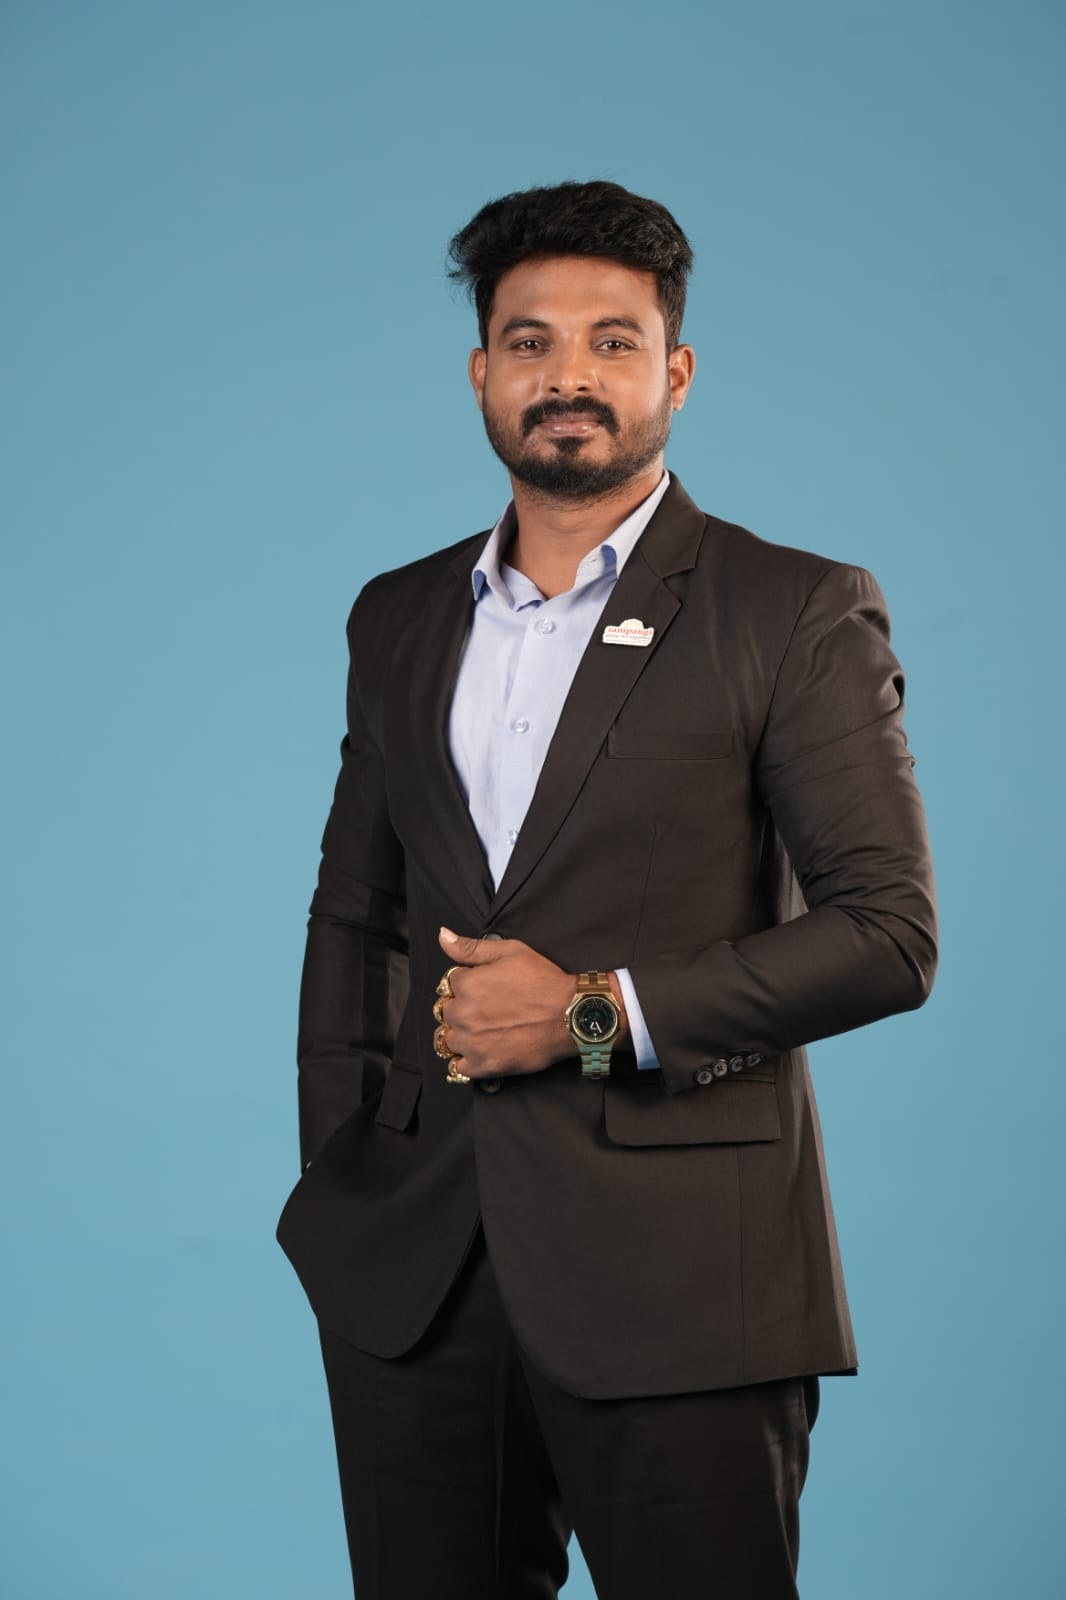
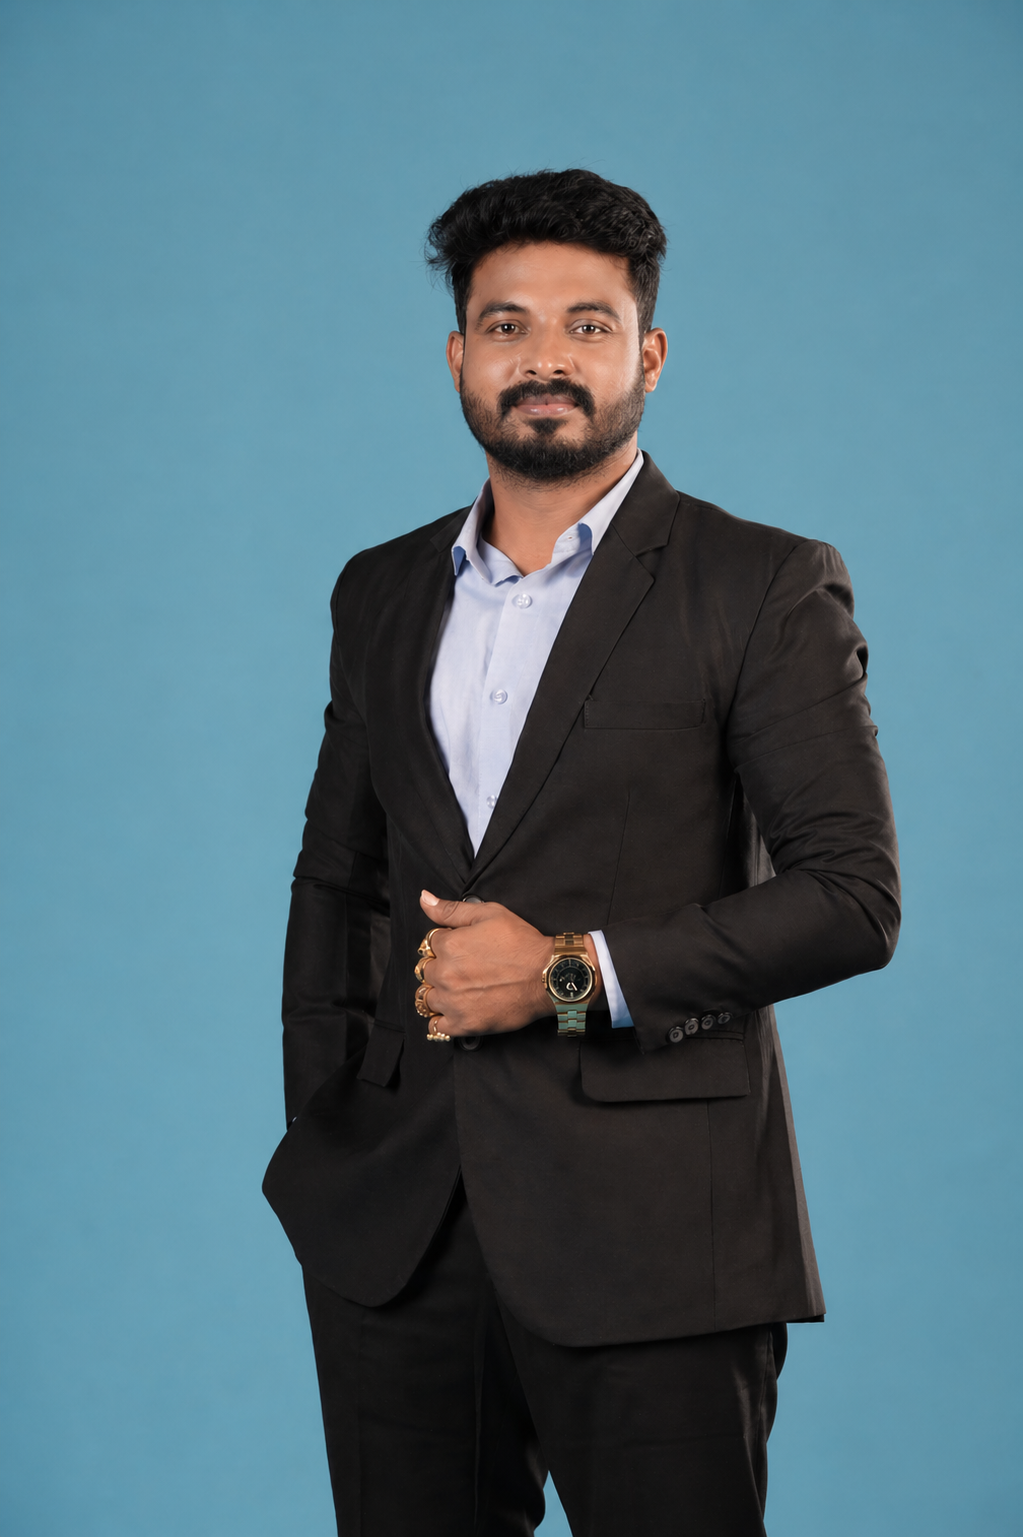
updated our journey

diff --git a/src/components/OngoingProjects.tsx b/src/components/OngoingProjects.tsx
@@ -20,8 +20,6 @@ import lemonTreeResort from "@/assets/lemon-tree-resort.png";
 import oneNineRezo from "@/assets/one-nine-rezo.png";
 
 export function OngoingProjects() {
-  const images = [image1, image2, image3, image4, image5, image6, image7, image8, image9, image10, image11, image12];
-  
   return (
     <div className="bg-background">
       {/* Project 1: Supraja Iris Resort */}
@@ -449,35 +447,35 @@ export function OngoingProjects() {
           </motion.div>
 
           <div className="columns-1 sm:columns-2 lg:columns-3 gap-6 space-y-6">
-            {images.map((img, index) => {
-              const labels = [
-                "Grand Entrance", "Clubhouse", "Swimming Pool", "Green Parks", 
-                "Kids Area", "Gym", "Jogging Track", "Security", 
-                "Party Lawn", "Yoga Deck", "Street Lights", "Drainage"
-              ];
-
-              return (
-                <motion.div
-                  key={index}
-                  initial={{ opacity: 0, y: 20 }}
-                  whileInView={{ opacity: 1, y: 0 }}
-                  viewport={{ once: false }}
-                  transition={{ duration: 0.5, delay: (index % 3) * 0.1 }}
-                  className="break-inside-avoid group relative rounded-3xl overflow-hidden shadow-soft hover:shadow-elegant transition-all duration-500 border border-border/50 bg-white"
-                >
-                  <img
-                    src={img}
-                    alt={labels[index]}
-                    className="w-full h-auto block transition-transform duration-700 group-hover:scale-105"
-                  />
-                  <div className="absolute inset-0 bg-black/20 group-hover:bg-black/40 transition-colors duration-500" />
-                  <div className="absolute bottom-0 left-0 right-0 p-6 translate-y-4 opacity-0 group-hover:translate-y-0 group-hover:opacity-100 transition-all duration-500">
-                    <p className="text-white font-bold text-lg">{labels[index]}</p>
-                    <div className="w-8 h-1 bg-primary mt-2 rounded-full" />
-                  </div>
-                </motion.div>
-              );
-            })}
+            {[
+              { img: image1,  label: "Grand Entrance" },
+              { img: image4,  label: "Green Parks" },
+              { img: image7,  label: "Jogging Track" },
+              { img: image10, label: "Yoga Deck" },
+              { img: image3,  label: "Swimming Pool" },
+              { img: image6,  label: "Gym" },
+              { img: image9,  label: "Party Lawn" },
+              { img: image12, label: "Drainage" },
+              { img: image2,  label: "Clubhouse" },
+              { img: image5,  label: "Kids Area" },
+              { img: image8,  label: "Security" },
+              { img: image11, label: "Street Lights" },
+            ].map(({ img, label }, index) => (
+              <motion.div
+                key={index}
+                initial={{ opacity: 0, y: 20 }}
+                whileInView={{ opacity: 1, y: 0 }}
+                viewport={{ once: false }}
+                transition={{ duration: 0.5, delay: (index % 3) * 0.1 }}
+                className="break-inside-avoid group relative rounded-3xl overflow-hidden shadow-soft hover:shadow-elegant transition-shadow duration-300 border border-border/50 bg-white"
+              >
+                <img
+                  src={img}
+                  alt={label}
+                  className="w-full h-auto block transition-transform duration-500 group-hover:scale-105"
+                />
+              </motion.div>
+            ))}
           </div>
         </div>
       </section>

diff --git a/src/components/Workspace.tsx b/src/components/Workspace.tsx
@@ -1,15 +1,17 @@
 import { motion } from "framer-motion";
-import office1 from "@/assets/office_image1.jpeg";
 import office2 from "@/assets/office_image2.jpeg";
 
 export function Workspace() {
   return (
     <section className="py-20 lg:py-24 bg-background">
       <div className="max-w-7xl mx-auto px-4 sm:px-6 lg:px-8">
-        <div className="max-w-4xl mx-auto text-center mb-12 lg:mb-16">
+        <div className="grid lg:grid-cols-5 gap-10 lg:gap-16 items-center">
+
+          {/* Left: Content */}
           <motion.div
-            initial={{ opacity: 0, y: -20 }}
-            whileInView={{ opacity: 1, y: 0 }}
+            className="lg:col-span-3"
+            initial={{ opacity: 0, x: -40 }}
+            whileInView={{ opacity: 1, x: 0 }}
             viewport={{ once: false, amount: 0.2 }}
             transition={{ duration: 0.7 }}
           >
@@ -18,44 +20,36 @@ export function Workspace() {
               A Hub of <span className="gradient-text">Excellence</span>
             </h2>
             <p className="mt-5 text-muted-foreground leading-relaxed">
-              Located in the heart of Hyderabad, our office is more than just a workspace — 
-              it's where your investment dreams take shape. We provide a welcoming 
-              environment where transparency and professionalism are at the forefront of 
+              Located in the heart of Hyderabad, our office is more than just a workspace —
+              it's where your investment dreams take shape. We provide a welcoming
+              environment where transparency and professionalism are at the forefront of
               every discussion.
             </p>
+            <p className="mt-4 text-muted-foreground leading-relaxed">
+              Whether you're a first-time buyer or a seasoned investor, our team is here
+              to guide you through every step — from site visits and legal checks to
+              documentation and final registration.
+            </p>
           </motion.div>
-        </div>
 
-        <div className="grid sm:grid-cols-2 gap-6 lg:gap-8 max-w-4xl mx-auto">
-          {/* Primary Image */}
+          {/* Right: Image (office2 only) */}
           <motion.div
-            initial={{ opacity: 0, scale: 0.95 }}
-            whileInView={{ opacity: 1, scale: 1 }}
+            initial={{ opacity: 0, x: 40 }}
+            whileInView={{ opacity: 1, x: 0 }}
             viewport={{ once: false, amount: 0.2 }}
             transition={{ duration: 0.8 }}
-            className="rounded-2xl overflow-hidden shadow-elegant border-2 lg:border-4 border-white"
+            className="lg:col-span-2 relative"
           >
-            <img
-              src={office1}
-              alt="RSN Office Main View"
-              className="w-full aspect-[4/3] object-cover"
-            />
+            <div className="absolute -inset-4 bg-gradient-primary rounded-3xl opacity-20 blur-2xl" />
+            <div className="relative rounded-2xl overflow-hidden shadow-elegant border-2 lg:border-4 border-white">
+              <img
+                src={office2}
+                alt="RSN Office Consultation Area"
+                className="w-full aspect-[3/2] object-cover"
+              />
+            </div>
           </motion.div>
 
-          {/* Secondary Image */}
-          <motion.div
-            initial={{ opacity: 0, scale: 0.95 }}
-            whileInView={{ opacity: 1, scale: 1 }}
-            viewport={{ once: false, amount: 0.2 }}
-            transition={{ duration: 0.8, delay: 0.2 }}
-            className="rounded-2xl overflow-hidden shadow-elegant border-2 lg:border-4 border-white"
-          >
-            <img
-              src={office2}
-              alt="RSN Office Consultation Area"
-              className="w-full aspect-[4/3] object-cover"
-            />
-          </motion.div>
         </div>
       </div>
     </section>

diff --git a/src/components/FounderTeaser.tsx b/src/components/FounderTeaser.tsx
@@ -25,9 +25,8 @@ export function FounderTeaser() {
               />
             </div>
             <div className="absolute -bottom-6 -right-4 sm:-right-6 bg-card text-foreground p-4 sm:p-5 rounded-2xl shadow-elegant border border-border w-max max-w-[95vw] z-10">
-              <div className="text-[10px] sm:text-xs uppercase tracking-wider text-primary font-bold">Founder</div>
-              <div className="mt-1 text-sm sm:text-base font-bold whitespace-nowrap">CHERUKUPALLY NARENDAR</div>
-              <div className="text-xs sm:text-sm text-muted-foreground mt-0.5 font-medium">RSN Infra & Properties</div>
+              <div className="text-[10px] sm:text-xs uppercase tracking-wider text-primary font-bold text-center">Founder</div>
+              <div className="text-[10px] sm:text-xs text-muted-foreground mt-1 font-medium text-center">RSN Infra & Properties</div>
             </div>
           </motion.div>
 
@@ -37,22 +36,39 @@ export function FounderTeaser() {
             viewport={{ once: false, amount: 0.2 }}
             transition={{ duration: 0.6 }}
           >
-            <span className="text-sm font-bold uppercase tracking-widest text-primary">
-              Meet the Founder
-            </span>
-            <h2 className="mt-3 text-3xl sm:text-4xl font-bold">
-              A vision built on <span className="gradient-text">trust</span>
-            </h2>
-            <Quote className="h-10 w-10 text-primary/30 mt-5" />
-            <p className="mt-3 text-lg font-display font-semibold text-foreground italic leading-snug">
-              "We don't just sell plots — we help you build your future, your dreams,
-              and your financial stability."
-            </p>
-            <p className="mt-5 text-muted-foreground leading-relaxed">
-              With over a decade of expertise in Hyderabad's real estate market, our
-              founder leads RSN Infra & Properties with one mission: making land ownership
-              transparent, secure, and genuinely rewarding for every family.
-            </p>
+            <Quote className="h-12 w-12 text-primary/30" />
+
+            {/* Highlighted Founder Name */}
+            <div className="mt-3 inline-flex flex-col">
+              <span className="text-2xl sm:text-3xl font-black gradient-text tracking-tight">
+                CHERUKAPALLY NARENDAR
+              </span>
+              <span className="mt-1 text-xs font-bold uppercase tracking-widest text-primary/70">
+                Founder — RSN Infra &amp; Properties
+              </span>
+              <div className="mt-2 h-1 w-16 rounded-full bg-gradient-to-r from-primary to-primary-glow" />
+            </div>
+
+            <blockquote className="mt-5 text-xl sm:text-2xl font-display font-semibold text-foreground leading-snug">
+              "Real estate isn't just about land or buildings — it's about helping families
+              secure their future, one trusted investment at a time."
+            </blockquote>
+
+            <div className="mt-6 space-y-4 text-muted-foreground leading-relaxed">
+              <p>
+                Narendar started solo in 2019 with a single belief — that every family deserves
+                honest, transparent guidance when investing in land. With no large team, just
+                determination and a deep knowledge of Hyderabad's emerging corridors, he built
+                RSN Infra &amp; Properties from the ground up.
+              </p>
+              <p>
+                By 2020, the portfolio expanded to luxury villas and HMDA-approved layouts.
+                By 2022, over 500 families had trusted RSN for their property journeys. Today,
+                in 2025, RSN serves high-growth corridors across Telangana — a testament to
+                one man's vision turned into a thriving brand.
+              </p>
+            </div>
+
             <Link
               to="/about"
               className="mt-7 inline-flex items-center gap-2 bg-gradient-primary text-primary-foreground px-6 py-3 rounded-full font-semibold shadow-soft hover:shadow-elegant hover:scale-105 transition-all"

diff --git a/src/components/Founder.tsx b/src/components/Founder.tsx
@@ -3,7 +3,7 @@ import { Quote, Award, Users, TrendingUp } from "lucide-react";
 import ceoPhoto from "@/assets/ceo_photo.jpeg";
 
 const stats = [
-  { icon: Award, value: "10+", label: "Years Experience" },
+  { icon: Award, value: "6+", label: "Years Experience" },
   { icon: Users, value: "500+", label: "Happy Clients" },
   { icon: TrendingUp, value: "100%", label: "Trusted Deals" },
 ];
@@ -24,11 +24,12 @@ export function Founder() {
             Meet Our <span className="gradient-text">Founder</span>
           </h2>
           <p className="mt-4 text-muted-foreground">
-            The vision and passion behind RSN Infra & Properties.
+            The vision and passion behind RSN Infra &amp; Properties.
           </p>
         </motion.div>
 
         <div className="grid lg:grid-cols-5 gap-10 lg:gap-16 items-center">
+          {/* Left: Photo only — no overlay card */}
           <motion.div
             initial={{ opacity: 0, x: -40 }}
             whileInView={{ opacity: 1, x: 0 }}
@@ -40,18 +41,19 @@ export function Founder() {
             <div className="relative rounded-3xl overflow-hidden shadow-elegant bg-gradient-to-br from-primary/10 to-primary-glow/10">
               <img
                 src={ceoPhoto}
-                alt="Founder of RSN Infra & Properties"
+                alt="Founder of RSN Infra &amp; Properties"
                 className="w-full h-auto block"
                 loading="lazy"
               />
             </div>
-            <div className="absolute -bottom-6 -right-4 sm:-right-6 bg-card text-foreground p-4 sm:p-5 rounded-2xl shadow-elegant border border-border w-max max-w-[95vw]">
-              <div className="text-[10px] sm:text-xs uppercase tracking-wider text-primary font-bold">Founder</div>
-              <div className="mt-1 text-sm sm:text-base font-bold whitespace-nowrap">CHERUKUPALLY NARENDAR</div>
-              <div className="text-xs sm:text-sm text-muted-foreground mt-0.5 font-medium">RSN Infra & Properties</div>
+            {/* Re-added card on image without name */}
+            <div className="absolute -bottom-6 -right-4 sm:-right-6 bg-card text-foreground p-4 sm:p-5 rounded-2xl shadow-elegant border border-border w-max max-w-[95vw] z-10">
+              <div className="text-[10px] sm:text-xs uppercase tracking-wider text-primary font-bold text-center">Founder</div>
+              <div className="text-[10px] sm:text-xs text-muted-foreground mt-1 font-medium text-center">RSN Infra &amp; Properties</div>
             </div>
           </motion.div>
 
+          {/* Right: Content with highlighted name */}
           <motion.div
             initial={{ opacity: 0, x: 40 }}
             whileInView={{ opacity: 1, x: 0 }}
@@ -60,22 +62,35 @@ export function Founder() {
             className="lg:col-span-3"
           >
             <Quote className="h-12 w-12 text-primary/30" />
-            <blockquote className="mt-4 text-xl sm:text-2xl font-display font-semibold text-foreground leading-snug">
+
+            {/* Highlighted Founder Name */}
+            <div className="mt-3 inline-flex flex-col">
+              <span className="text-2xl sm:text-3xl font-black gradient-text tracking-tight">
+                CHERUKAPALLY NARENDAR
+              </span>
+              <span className="mt-1 text-xs font-bold uppercase tracking-widest text-primary/70">
+                Founder — RSN Infra &amp; Properties
+              </span>
+              <div className="mt-2 h-1 w-16 rounded-full bg-gradient-to-r from-primary to-primary-glow" />
+            </div>
+
+            <blockquote className="mt-5 text-xl sm:text-2xl font-display font-semibold text-foreground leading-snug">
               "Real estate isn't just about land or buildings — it's about helping families
               secure their future, one trusted investment at a time."
             </blockquote>
 
             <div className="mt-6 space-y-4 text-muted-foreground leading-relaxed">
               <p>
-                With over a decade in Hyderabad's fast-evolving property market, our founder
-                established RSN Infra & Properties on a simple belief: every customer deserves
-                clarity, honesty, and a fair deal. From the first site visit to final
-                registration, his team is involved at every stage.
+                Narendar started solo in 2019 with a single belief — that every family deserves
+                honest, transparent guidance when investing in land. With no large team, just
+                determination and a deep knowledge of Hyderabad's emerging corridors, he built
+                RSN Infra &amp; Properties from the ground up.
               </p>
               <p>
-                Under his leadership, RSN has grown from a small advisory practice into a
-                trusted name for premium open plots, villas and high-ROI investment land
-                across Hyderabad's most promising corridors.
+                By 2020, the portfolio expanded to luxury villas and HMDA-approved layouts.
+                By 2022, over 500 families had trusted RSN for their property journeys. Today,
+                in 2025, RSN serves high-growth corridors across Telangana — a testament to
+                one man's vision turned into a thriving brand.
               </p>
             </div>
 

diff --git a/src/components/About.tsx b/src/components/About.tsx
@@ -36,10 +36,10 @@ const pillars = [
 ];
 
 const milestones = [
-  { year: "2014", title: "Founded", text: "Started with a focus on premium open plots in Hyderabad outskirts." },
-  { year: "2018", title: "Expanded Portfolio", text: "Added luxury villas, flats and HMDA-approved layouts." },
-  { year: "2021", title: "500+ Families Served", text: "Crossed a milestone of 500+ trusted property handovers." },
-  { year: "2024", title: "Statewide Reach", text: "Now serving high-growth corridors across Telangana." },
+  { year: "2019", title: "Founded", text: "Started with a focus on premium open plots in Hyderabad outskirts." },
+  { year: "2020", title: "Expanded Portfolio", text: "Added luxury villas, flats and HMDA-approved layouts." },
+  { year: "2022", title: "500+ Families Served", text: "Crossed a milestone of 500+ trusted property handovers." },
+  { year: "2025", title: "Statewide Reach", text: "Now serving high-growth corridors across Telangana." },
 ];
 
 export function About() {
@@ -210,7 +210,7 @@ export function About() {
               <Sparkles className="h-4 w-4" /> Our Journey
             </span>
             <h2 className="mt-2 text-3xl sm:text-4xl font-bold">
-              A Decade of <span className="gradient-text">Trusted Growth</span>
+              A Legacy of <span className="gradient-text">Trusted Growth</span>
             </h2>
           </motion.div>
 

diff --git a/src/components/Navbar.tsx b/src/components/Navbar.tsx
@@ -58,7 +58,7 @@ export function Navbar() {
         </div>
       </div>
 
-      <nav className={`max-w-7xl mx-auto px-4 sm:px-6 lg:px-8 flex items-center justify-between transition-all duration-300 ${scrolled ? "h-16" : "h-20"}`}>
+      <nav className={`max-w-7xl mx-auto px-4 sm:px-6 lg:px-8 flex items-center justify-between transition-all duration-300 ${scrolled ? "h-12 lg:h-16" : "h-14 lg:h-20"}`}>
         <motion.div
           initial={{ opacity: 0, x: -20 }}
           animate={{ opacity: 1, x: 0 }}
@@ -68,7 +68,7 @@ export function Navbar() {
             <img 
               src={logo} 
               alt="RSN Infra & Properties" 
-              className={`transition-all duration-300 ${scrolled ? "h-8 md:h-10" : "h-10 md:h-12"} w-auto`} 
+              className={`transition-all duration-300 ${scrolled ? "h-6 lg:h-10" : "h-8 lg:h-12"} w-auto`} 
             />
           </Link>
         </motion.div>